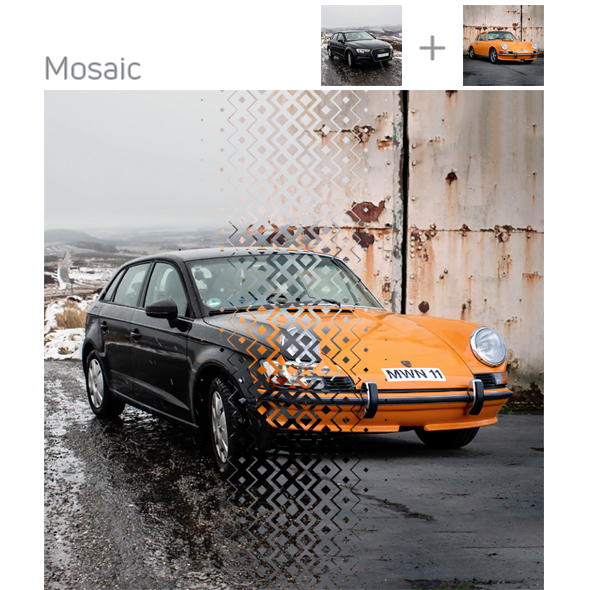
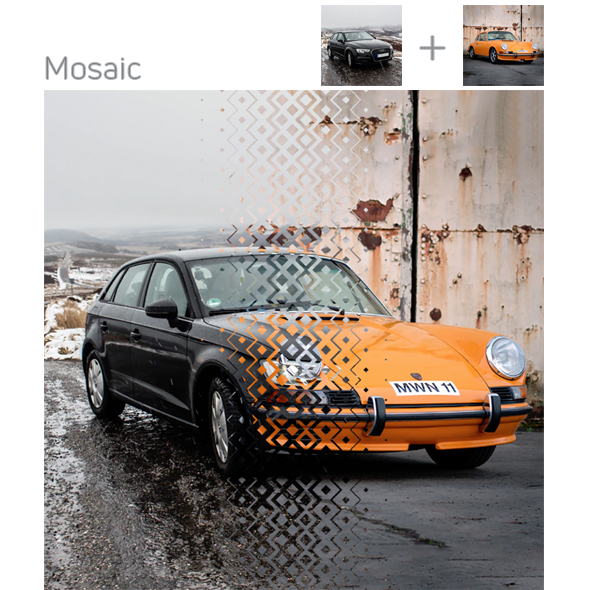
updt

diff --git a/wipe_html/index.html b/wipe_html/index.html
@@ -33,7 +33,7 @@
 <img src="https://raw.githubusercontent.com/akidaniel/almacen/gh-pages/wipe_html/images/diamond.jpg" alt="Diamond">
 <img src="https://raw.githubusercontent.com/akidaniel/almacen/gh-pages/wipe_html/images/egg.jpg" alt="Egg">
 <img src="https://raw.githubusercontent.com/akidaniel/almacen/gh-pages/wipe_html/images/diamond.jpg" alt="Flame">
-<img src="https://raw.githubusercontent.com/akidaniel/almacen/gh-pages/wipe_html/images/diamond.jpg" alt="Mosaic">
+<img src="https://raw.githubusercontent.com/akidaniel/almacen/gh-pages/wipe_html/images/mosaic.jpg" alt="Mosaic">
 <img src="https://raw.githubusercontent.com/akidaniel/almacen/gh-pages/wipe_html/images/diamond.jpg" alt="Onion">
 <img src="https://raw.githubusercontent.com/akidaniel/almacen/gh-pages/wipe_html/images/diamond.jpg" alt="Rain">
 <img src="https://raw.githubusercontent.com/akidaniel/almacen/gh-pages/wipe_html/images/diamond.jpg" alt="Round brick">
